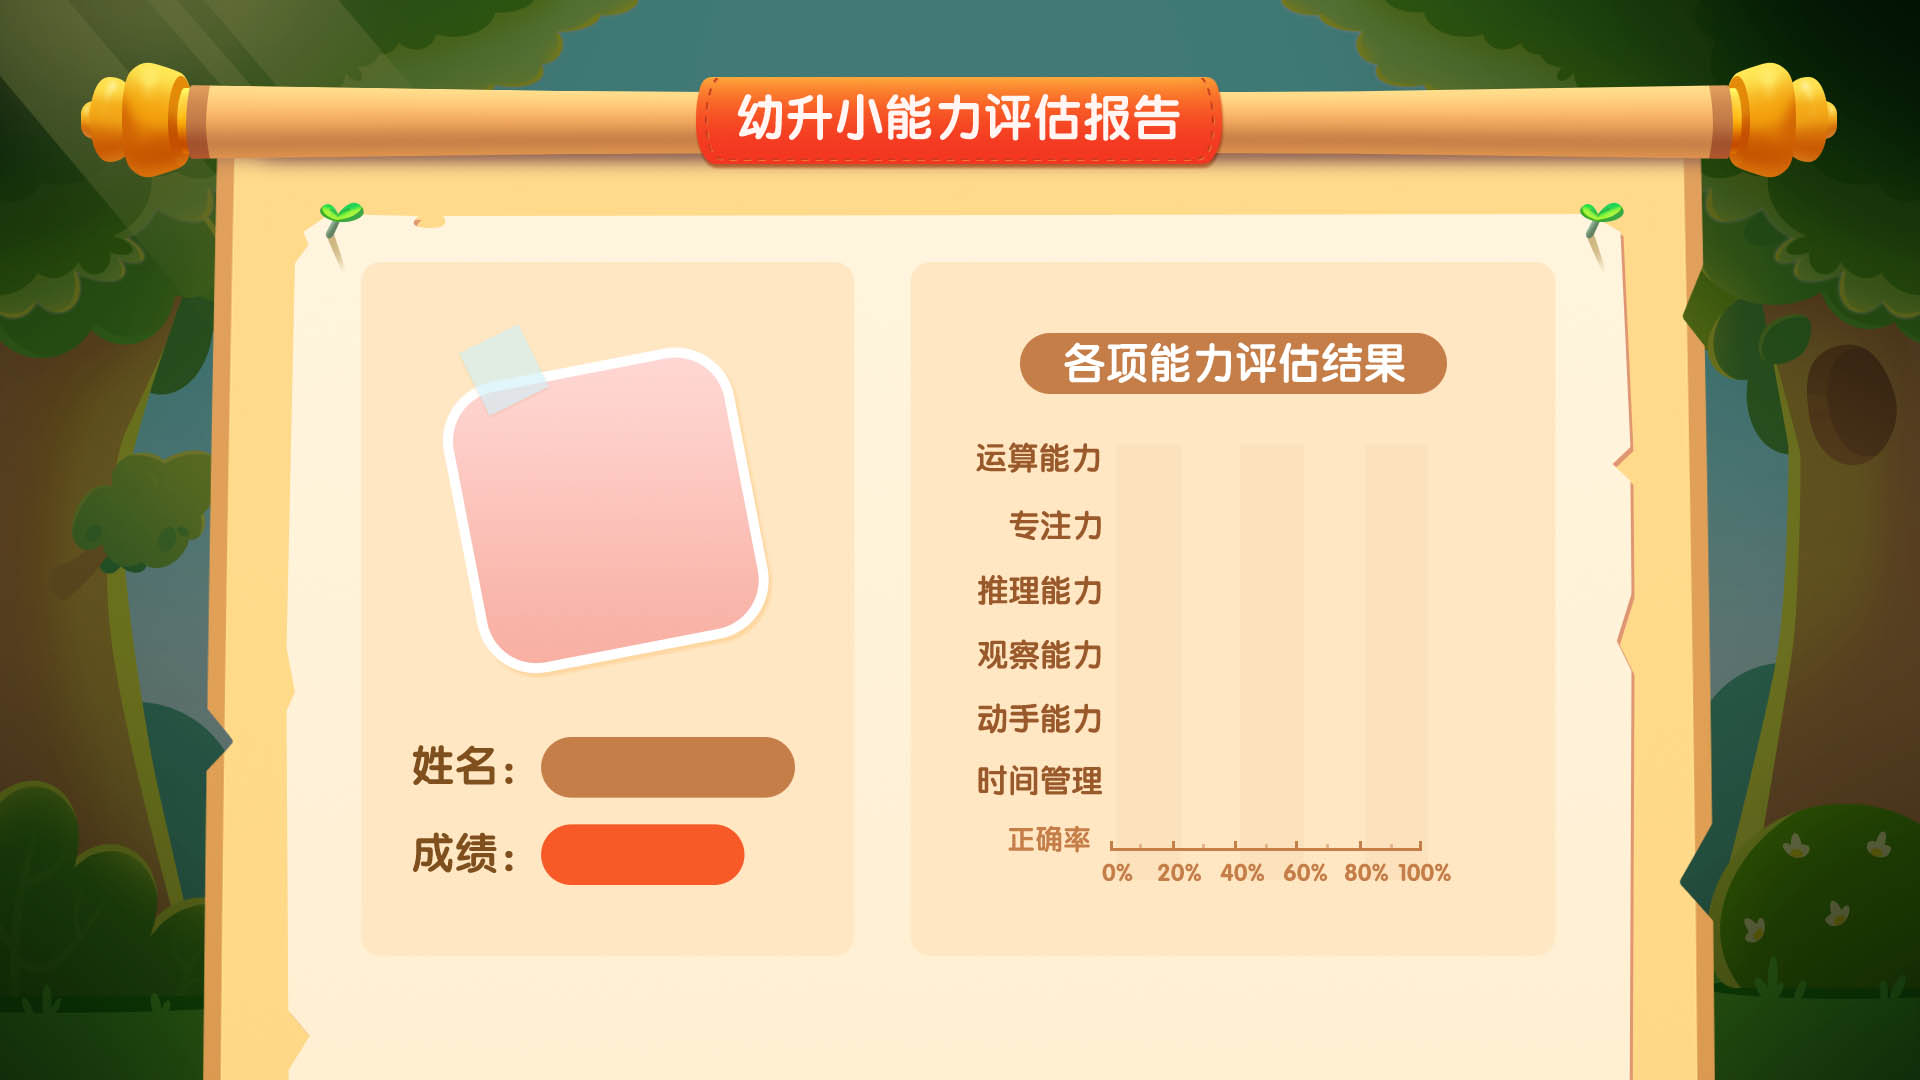
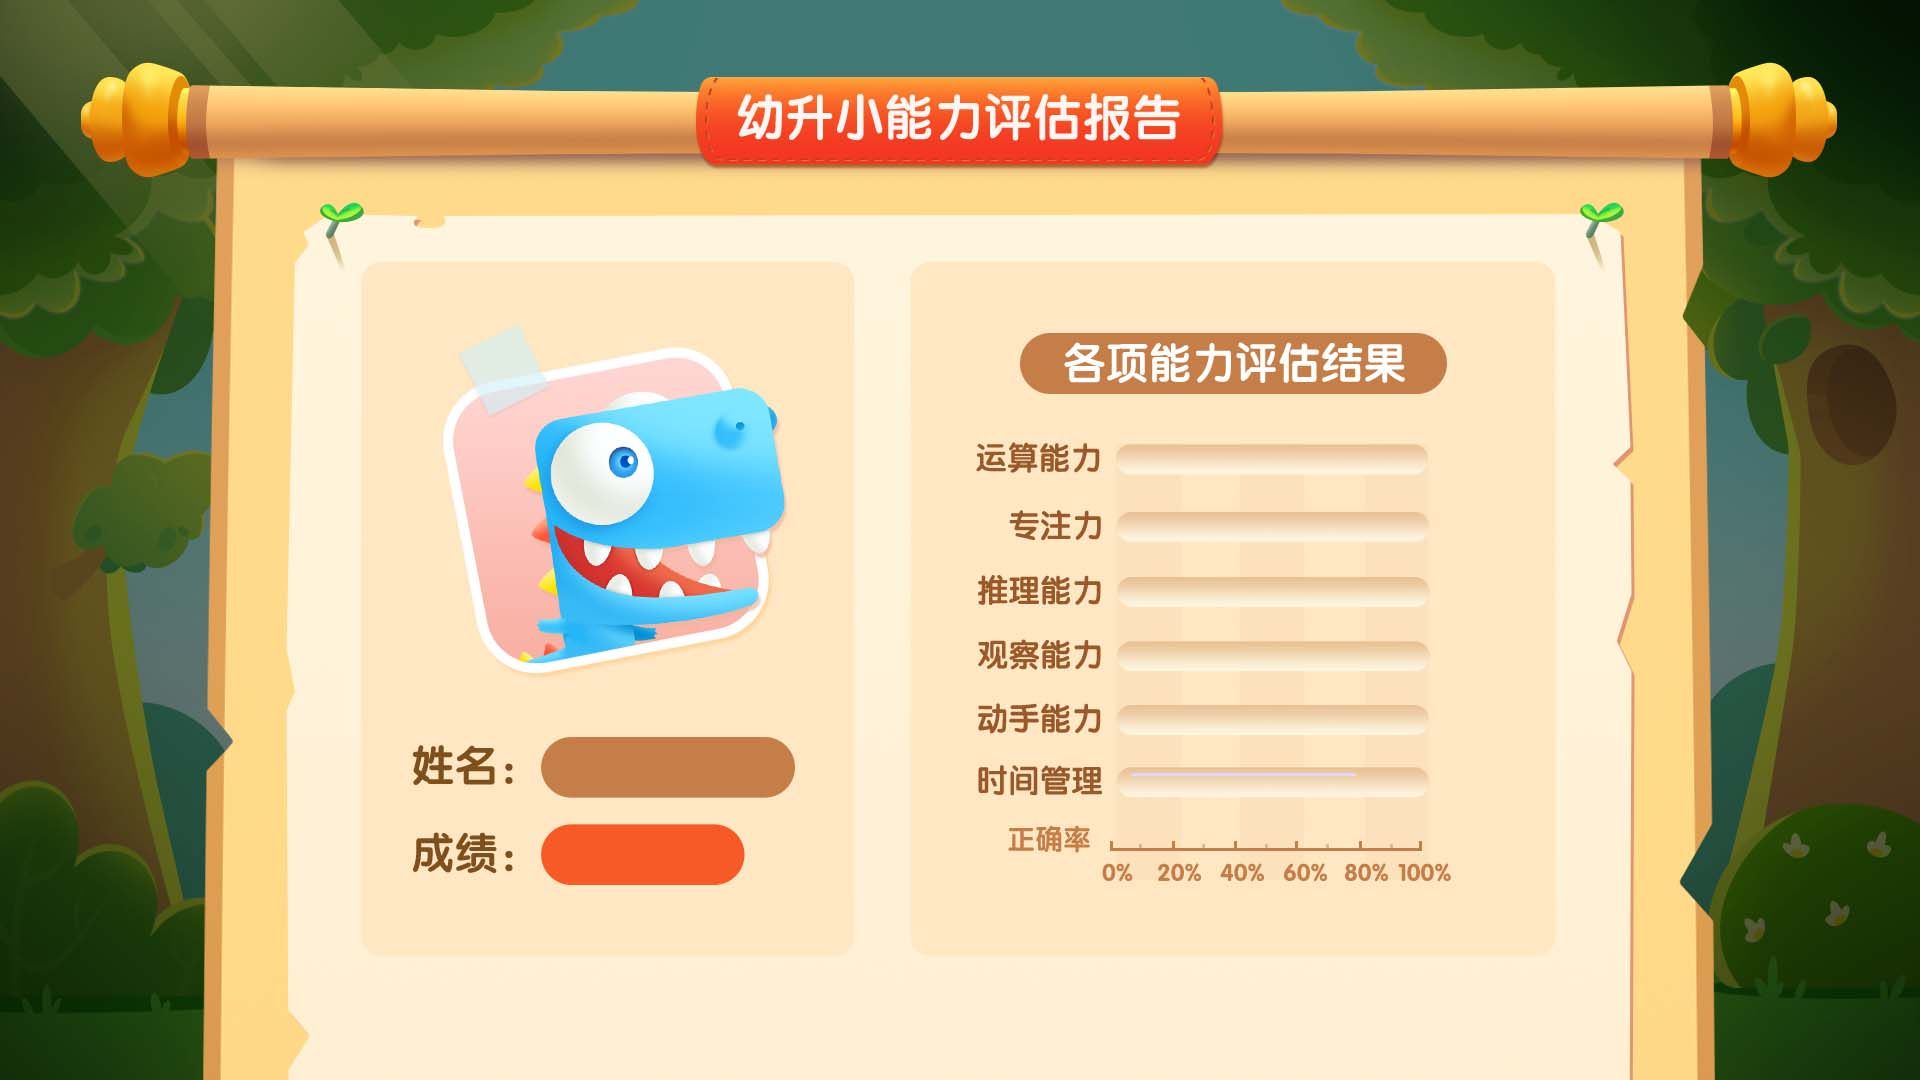
更新了能力评估界面

Changed region(s): [[0.5938, 0.3972, 0.75, 0.7639], [0.25, 0.3361, 0.4062, 0.6111], [0.4062, 0.0917, 0.5938, 0.1222]]

diff --git a/src/components/Summary.vue b/src/components/Summary.vue
@@ -5,10 +5,14 @@
                      <div class="areabar">
                      <PercentBar v-for="(item,key,index) in percentbarList" :key="index" :width='3.13'  :color='item.color' :height='0.33' :currentNum='item.currentNum' :score="item.score" :totalNum='100' style="margin-bottom:0.32rem"/>
                    </div>
+                   <div class="userinfoband">
+                      <div class='username'>刘昭廷</div>
+                      <div class='score'>score</div>
+                   </div>
                    <Arrows :posx="0"/>
              </swiper-slide>
              <swiper-slide class="scene2">
-                 <RadarGraphic  :point_Array="point_arry"/>
+                 <RadarGraphic   :point_Array="point_arry"/>
                  <Arrows :posx="-4.6" />
 
                   <!-- <Buttons src="" :x="(19.2/2)-1.21" :y="10.8*0.72"/> -->
@@ -54,6 +58,35 @@ $con_txsize:0.4rem;//恭喜面板字体
   width:3.13rem;
   height:4.37rem;
 }
+.userinfoband{
+  position: relative;
+  width:4.9rem;
+  height:6.8rem;
+  left:3.6rem;
+  top:2.7rem;
+  .username{
+    position: absolute;
+    text-align: center;
+    line-height: auto;
+    width:2rem;
+    top:4.66rem;
+    left:2rem;
+    color:white;
+    font-size: 0.4rem;
+  }
+  .score{
+    position: absolute;
+    text-align: center;
+    line-height: auto;
+    width:1.6rem;
+    top:5.56rem;
+    left:2rem;
+    color:white;
+    font-size: 0.44rem;
+
+  }
+};
+
 .congratulationList{
   position: absolute;
   top:2.2rem;
@@ -67,7 +100,6 @@ $con_txsize:0.4rem;//恭喜面板字体
    box-sizing: border-box;
    text-align: justify;
    line-height: 200%;
-
 }
 .lessonTestRight{
   position: absolute;
@@ -82,44 +114,34 @@ $con_txsize:0.4rem;//恭喜面板字体
   top:2.8rem;
   left:9.8rem;
   font-size: 0.2rem;
-
+  .ullist{
+    display: flex;
+    flex-direction: row;
+    justify-content: center;
+    align-items: flex-start;
+    position: relative;
+    height:0.37rem;
+    div{
+     display: flex;
+     position: relative;
+     justify-content:center;
+     align-items: center;
+     color:#9a592a;
+     height:0.36rem;
+     font-weight: bold;
+   }
+   .times{
+     width:1.06rem;
+   }
+  .lesson{
+    flex-grow: 1;
+  }
+  .respons{
+    width:1.75rem;
+  }
+  }
 }
-.lessonTestRight .ullist{
-  display: flex;
-  flex-direction: row;
-  justify-content: center;
-  align-items: flex-start;
-  position: relative;
-  height:0.37rem;
 
-
-
-}
-.lessonTestRight .ullist div{
-  display: flex;
-  position: relative;
-  justify-content:center;
-  align-items: center;
-  color:#9a592a;
-  height:0.36rem;
-  font-weight: bold;
-
-
-}
-.lessonTestRight .ullist div.times{
-  width:1.06rem;
-
-}
-.lessonTestRight .ullist div.lesson{
-  flex-grow: 1;
-
-
-}
-.lessonTestRight .ullist div.respons{
-  width:1.75rem;
-
-
-}
 .lessonTestLeft{
   position: absolute;
   display: flex;
@@ -132,42 +154,37 @@ $con_txsize:0.4rem;//恭喜面板字体
   top:0px;
   top:2.8rem;
   left:3.58rem;
-    font-size: 0.25rem;
+  font-size: 0.25rem;
+  .ullist{
+    display: flex;
+    flex-direction: row;
+    justify-content: center;
+    align-items: flex-start;
+    position: relative;
+    height:0.565rem;
+    div{
+      display: flex;
+      position: relative;
+      justify-content:center;
+      align-items: center;
+
+      color:#9a592a;
+      height:0.68rem;
+      font-weight: bold;
+    }
+    .times{
+      width:1.06rem;
+    }
+    .lesson{
+      flex-grow: 1;
+    }
+    .respons{
+      width:1.81rem;
+    }
+  }
 
 }
-.lessonTestLeft .ullist{
-  display: flex;
-  flex-direction: row;
-  justify-content: center;
-  align-items: flex-start;
-  position: relative;
-  height:0.565rem;
 
-
-}
-.lessonTestLeft .ullist div{
-  display: flex;
-  position: relative;
-  justify-content:center;
-  align-items: center;
-
-  color:#9a592a;
-  height:0.68rem;
-  font-weight: bold;
-
-
-}
-.lessonTestLeft .ullist div.times{
-  width:1.06rem;
-}
-.lessonTestLeft .ullist div.lesson{
-  flex-grow: 1;
-
-
-}
-.lessonTestLeft .ullist div.respons{
-  width:1.81rem;
-}
 .button1{
   position: absolute;
   top:0px;
@@ -195,7 +212,6 @@ $con_txsize:0.4rem;//恭喜面板字体
   right:0px;
   top:7.2rem;
   cursor: pointer;
-
 }
 .scene1,.scene2,.scene3{
 position: relative;

diff --git a/src/components/RadarGraphic.vue b/src/components/RadarGraphic.vue
@@ -3,38 +3,12 @@
 
     <svg ref="mysvg"  viewBox="0,0,1920,1080" width="100%" height="100%"  version="1.1"
   xmlns="http://www.w3.org/2000/svg">
-      <g>
+      <!-- <g>
 
         <polygon  :points="getgraphics"
         style="fill:rgb(249,215,170);
         stroke:#000000;stroke-width:0"/>
-      </g>
-
-      <g>
-        <polygon :points="texturegraphicsA"
-        style="fill:rgb(255,231,195);
-        stroke:#000000;stroke-width:0"/>
-      </g>
-
-      <g>
-        <polygon :points="texturegraphicsB"
-        style="fill:rgb(249,215,170);
-        stroke:#000000;stroke-width:0"/>
-      </g>
-
-      <g>
-        <polygon :points="texturegraphicsC"
-        style="fill:rgb(255,231,195);
-        stroke:#000000;stroke-width:0"/>
-      </g>
-
-      <g>
-        <polygon :points="texturegraphicsD"
-        style="fill:rgb(249,215,170);
-        stroke:#000000;stroke-width:0"/>
-      </g>
-
-
+      </g> -->
 
       <g>
         <polygon ref="innerGraphic" :points="innerGetgraphics"
@@ -43,8 +17,7 @@
       </g>
       <circle v-for="(item,index) in circlelist" :key="index" :cx="item.cx" :cy="item.cy" r="3"
        fill="#18a9ff"/>
-       <text  v-for="(item,index) in svgText" :x="item.x" :y="item.y"  fill="#9a592a" style="font-size:0.3rem;font-weight:bold;" v-html="item.text"></text>
-      <text  :x="gl_text_x" :y="gl_text_y"  fill="#9a592a" style="font-size:0.3rem;font-weight:bold;">能力</text>
+
   </svg>
 
 </template>
@@ -57,8 +30,8 @@
         default:function(){
 
           return{
-            x:635,
-            y:440
+            x:647,
+            y:448
           }
         }
       },
@@ -81,7 +54,7 @@
       },
       radiusInner:{
         type:Number,
-        default:165
+        default:175
       },
       //初始化百分比分数布局点数组
       point_Array:{
